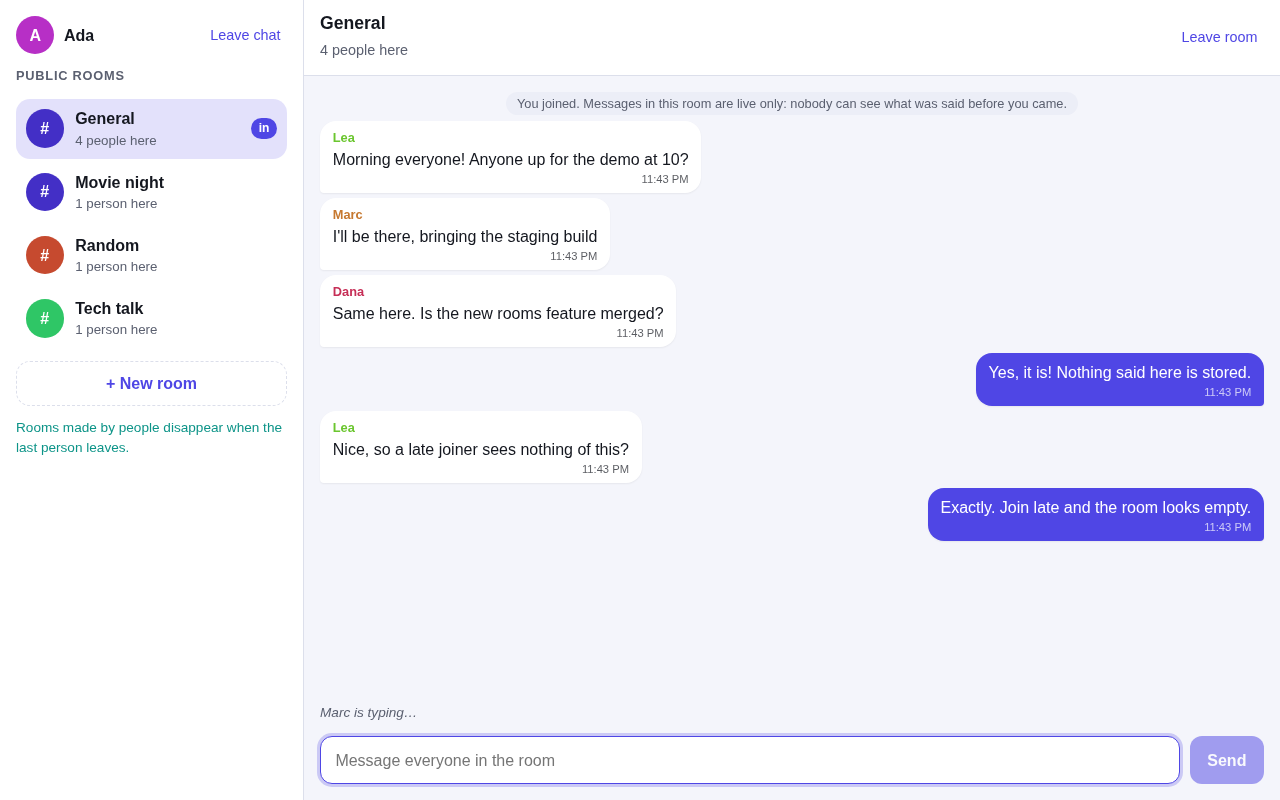
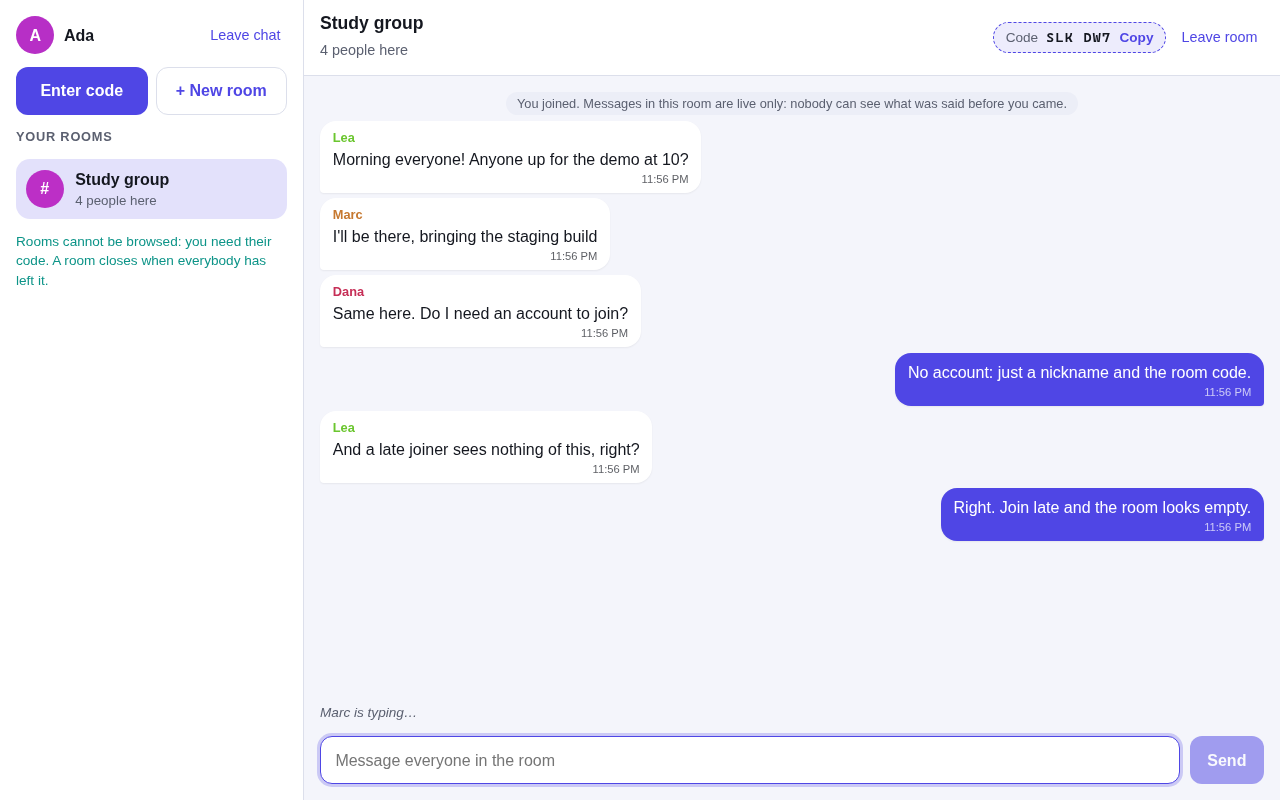
ui: code on its own row on phones, shorter button; docs: README and screenshots for joining with a code

diff --git a/src/components/RoomList.vue b/src/components/RoomList.vue
@@ -38,7 +38,7 @@ const choose = (next: 'join' | 'create') => {
     </header>
 
     <div class="actions">
-      <button type="button" class="primary" :aria-pressed="mode === 'join'" @click="choose('join')">Join with a code</button>
+      <button type="button" class="primary" :aria-pressed="mode === 'join'" @click="choose('join')">Enter code</button>
       <button type="button" class="secondary" :aria-pressed="mode === 'create'" @click="choose('create')">+ New room</button>
     </div>
 

diff --git a/src/style.css b/src/style.css
@@ -443,6 +443,17 @@ button:focus-visible {
   .back {
     display: block;
   }
+
+  /* the code gets its own row under the title instead of squeezing it */
+  .panel > header {
+    flex-wrap: wrap;
+  }
+
+  .code-chip {
+    order: 3;
+    flex: 1 1 100%;
+    justify-content: center;
+  }
 }
 
 /* ---- joining with a code ---- */

diff --git a/README.md b/README.md
@@ -1,23 +1,23 @@
-# Public chat rooms: live only (Vue 3 + Socket.IO)
+# Chat rooms joined with a code: live only (Vue 3 + Socket.IO)
 
-Open chat rooms for anyone, with one rule: **nothing is ever stored**. A message is relayed to the people who are in the room at that moment and that is all. Join a room late, or reconnect, and it looks empty. There are no accounts: you pick a nickname and walk in.
+Chat rooms with two rules. **A room can only be entered with its code**, and **nothing is ever stored**. A message is relayed to the people who are in the room at that moment and that is all: join late, or reconnect, and the room looks empty. There are no accounts: you pick a nickname, then create a room and share its code, or join one with the code you were given.
 
 | | | |
 | :---: | :---: | :---: |
-| <img src="docs/screenshots/welcome.png" width="260" alt="The first screen: choose a nickname"> | <img src="docs/screenshots/phone-rooms.png" width="170" alt="The rooms on a phone"> | <img src="docs/screenshots/phone-chat.png" width="170" alt="A room on a phone: a late joiner only sees what is said after arriving"> |
+| <img src="docs/screenshots/welcome.png" width="260" alt="The first screen: choose a nickname"> | <img src="docs/screenshots/phone-rooms.png" width="170" alt="The rooms you are in, on a phone"> | <img src="docs/screenshots/phone-chat.png" width="170" alt="A room on a phone: the code on its own row, and a late joiner who only sees what is said after arriving"> |
 
-<img src="docs/screenshots/chat.png" alt="A conversation in the General room, with the list of public rooms on the left">
+<img src="docs/screenshots/chat.png" alt="A conversation in the Study group room: your rooms on the left, the room's code in the header">
 
-The conversation view in dark mode: [docs/screenshots/chat-dark.png](docs/screenshots/chat-dark.png).
+A wrong code: [docs/screenshots/wrong-code.png](docs/screenshots/wrong-code.png). The conversation in dark mode: [docs/screenshots/chat-dark.png](docs/screenshots/chat-dark.png).
 
-## Features
+## How it works
 
-- **Several public rooms**: General, Random and Tech talk always exist; anyone can create another one, and it disappears when the last person leaves it.
-- **Who is here**: every room shows how many people are in it (updated live for everyone), and its member list. "Ada joined" / "Bob left" notices appear in the conversation.
-- **Nicknames**, unique among the people online (2 to 20 characters; "ada" and "Ada" are the same).
-- **Typing indicator**, message times, your own messages on the right, a colour per person.
-- **Live only**: the server keeps no history, the browser stores nothing (no cookie, no local storage). Leaving a room forgets everything said in it.
-- **Reconnection**: if the connection drops, the page says hello again with the same nickname and goes back into its rooms (what was said in between is lost, as it should be).
+- **Create a room**: give it a name and you are inside, with its **code** (six letters and digits such as `K7M 2QX`) shown in the header, with a Copy button. Send the code to whoever should come in.
+- **Join a room**: type the code (any case, with or without the space). That is the only way in. Rooms **cannot be browsed or listed**, and the server never sends anyone a list of rooms.
+- **Live only**: the server keeps no history and the browser stores nothing (no cookie, no local storage). Leaving a room forgets everything said in it.
+- **A room exists while somebody is in it.** When the last person leaves, the room closes and its code stops working. If the last person was only disconnected, the room stays open for a minute, so a connection that blips does not cost you your room and its code.
+- Everybody in a room sees who else is in it, "Ada joined" / "Bob left" notices, a typing indicator and message times. Nicknames are unique among the people online (2 to 20 characters; "ada" and "Ada" are the same).
+- If the connection drops, the page says hello again with the same nickname and goes back into its rooms using their codes.
 - Light and dark themes; on a phone, the room list and the conversation take turns.
 
 ## Run it
@@ -52,15 +52,17 @@ docker compose up --build         # http://localhost:3000
 
 Everything the client sends is untrusted, so the server checks it (see `server/rooms.js`):
 
-| Limit | |
+| | |
 | --- | --- |
+| room code | 6 characters from 32 (no `0/O` or `1/I`, easy to mix up): about a billion codes, chosen at random, unique among open rooms |
+| wrong codes | 10 per address every 5 minutes, then even the right code is refused until the window passes: two guesses a minute per address, against a billion possible codes |
 | nickname | 2 to 20 letters, digits, spaces, `.`, `_`, `-`; unique among people online |
-| room name | 2 to 30 characters, unique (case-insensitive); at most 50 rooms |
+| room name | 2 to 30 characters; two rooms can share a name, their codes tell them apart; at most 200 rooms |
 | message | text, 1 to 500 characters; at most 5 per 5 seconds per connection |
 | room | at most 200 people; one person can be in at most 10 rooms |
 | payload | anything over 10 KB is dropped by Socket.IO before it is read |
 
-Messages are shown by Vue as text, never as HTML.
+Messages are shown by Vue as text, never as HTML. The wrong-code limit works per network address and the server does not read `X-Forwarded-For`: behind a reverse proxy every visitor would look like the proxy and share one limit, so put it behind one only after adding that. `/health` shows only how many people and rooms there are, never names or codes.
 
 ## Protocol (Socket.IO)
 
@@ -68,27 +70,24 @@ Client to server, each with an acknowledgement `{ ok: true, ... }` or `{ error }
 
 | Event | Data | Answer |
 | --- | --- | --- |
-| `hello` | `{ nickname }` | `user`, `rooms` (required before anything else) |
-| `rooms:list` | | `rooms` |
-| `room:create` | `{ name }` | `room` |
-| `room:join` | `{ room }` | `room`, `members` |
+| `hello` | `{ nickname }` | `user` (required before anything else) |
+| `room:create` | `{ name }` | `room` (with its `code`), `members`: you are inside |
+| `room:join` | `{ code }` | `room`, `members` |
 | `room:leave` | `{ room }` | |
 | `message` | `{ room, text }` | `id` |
 | `typing` | `{ room, typing }` | (no answer) |
 
-Server to clients: `message` and `typing` (to the people in the room), `room:members` and `room:event` (join / leave notices, to the room), `rooms` (the list with head counts, to everybody who chose a nickname).
-
-`GET /health` answers `{ status, online, rooms }`.
+Server to the people in a room: `message`, `typing`, `room:members` (who is in) and `room:event` (join / leave notices). `GET /health` answers `{ status, online, rooms }`.
 
 ## Tests
 
 ```bash
-npm test                  # 70 tests: the rules, the server with real sockets, the chat store, the components
-npm run test:coverage     # with a coverage report (about 84%, 95% on the server)
+npm test                  # 103 tests: the rules, the server with real sockets, the chat store, the components
+npm run test:coverage     # with a coverage report (about 86%, 95% on the server)
 npm run build             # type-checks the code and the tests, then builds
 ```
 
-The server tests start a real server on a free port and connect several real clients: messages reach only the people in the room, nothing is stored (a late joiner sees nothing), the rate limit, payload and nickname checks, disconnections. The chat-store test also cuts a connection and checks that the page comes back into its rooms.
+The server tests start a real server on a free port and connect several real clients: a room cannot be entered without its code (its id is not a way in either), rooms are never listed, messages reach only the people in the room, nothing is stored (a late joiner sees nothing), a room closes when the last person leaves, brute-forcing codes is stopped, rate limits and payload checks. The chat-store test also cuts a connection and checks that the page comes back into its room with the same code.
 
 ## CI/CD
 
@@ -100,7 +99,7 @@ The server tests start a real server on a free port and connect several real cli
 
 ```
 server.js                entry point: starts the server (and serves dist/ when it has been built)
-server/rooms.js          the rules: nicknames, rooms, members, limits, rate limiter (no Socket.IO)
+server/rooms.js          the rules: nicknames, rooms, codes, members, limits, rate limiters (no Socket.IO)
 server/index.js          the Socket.IO server and the tiny static file server
 src/composables/chat.ts  the chat on the client: connection, rooms, messages, reconnection
 src/components/          NicknameForm, RoomList, ChatPanel
